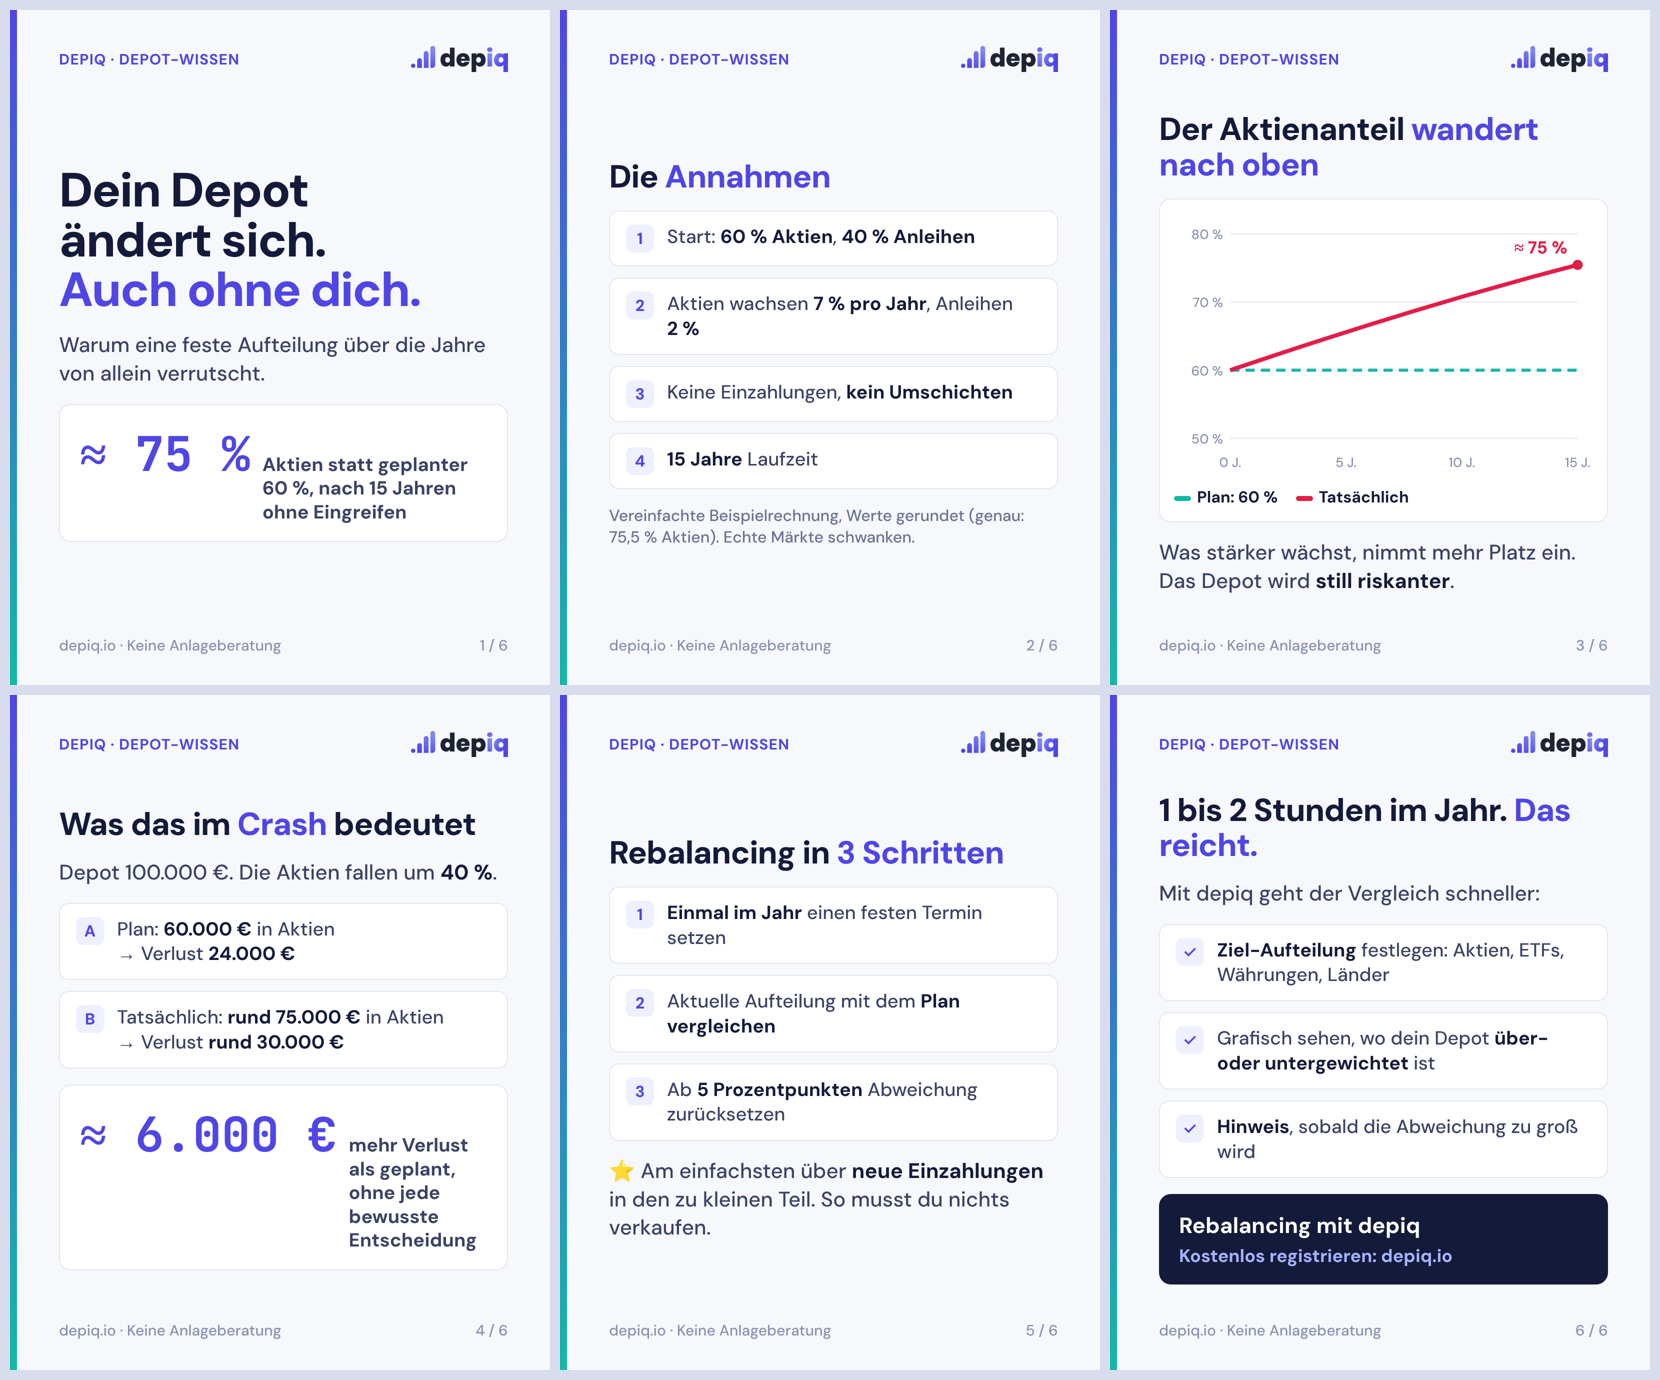
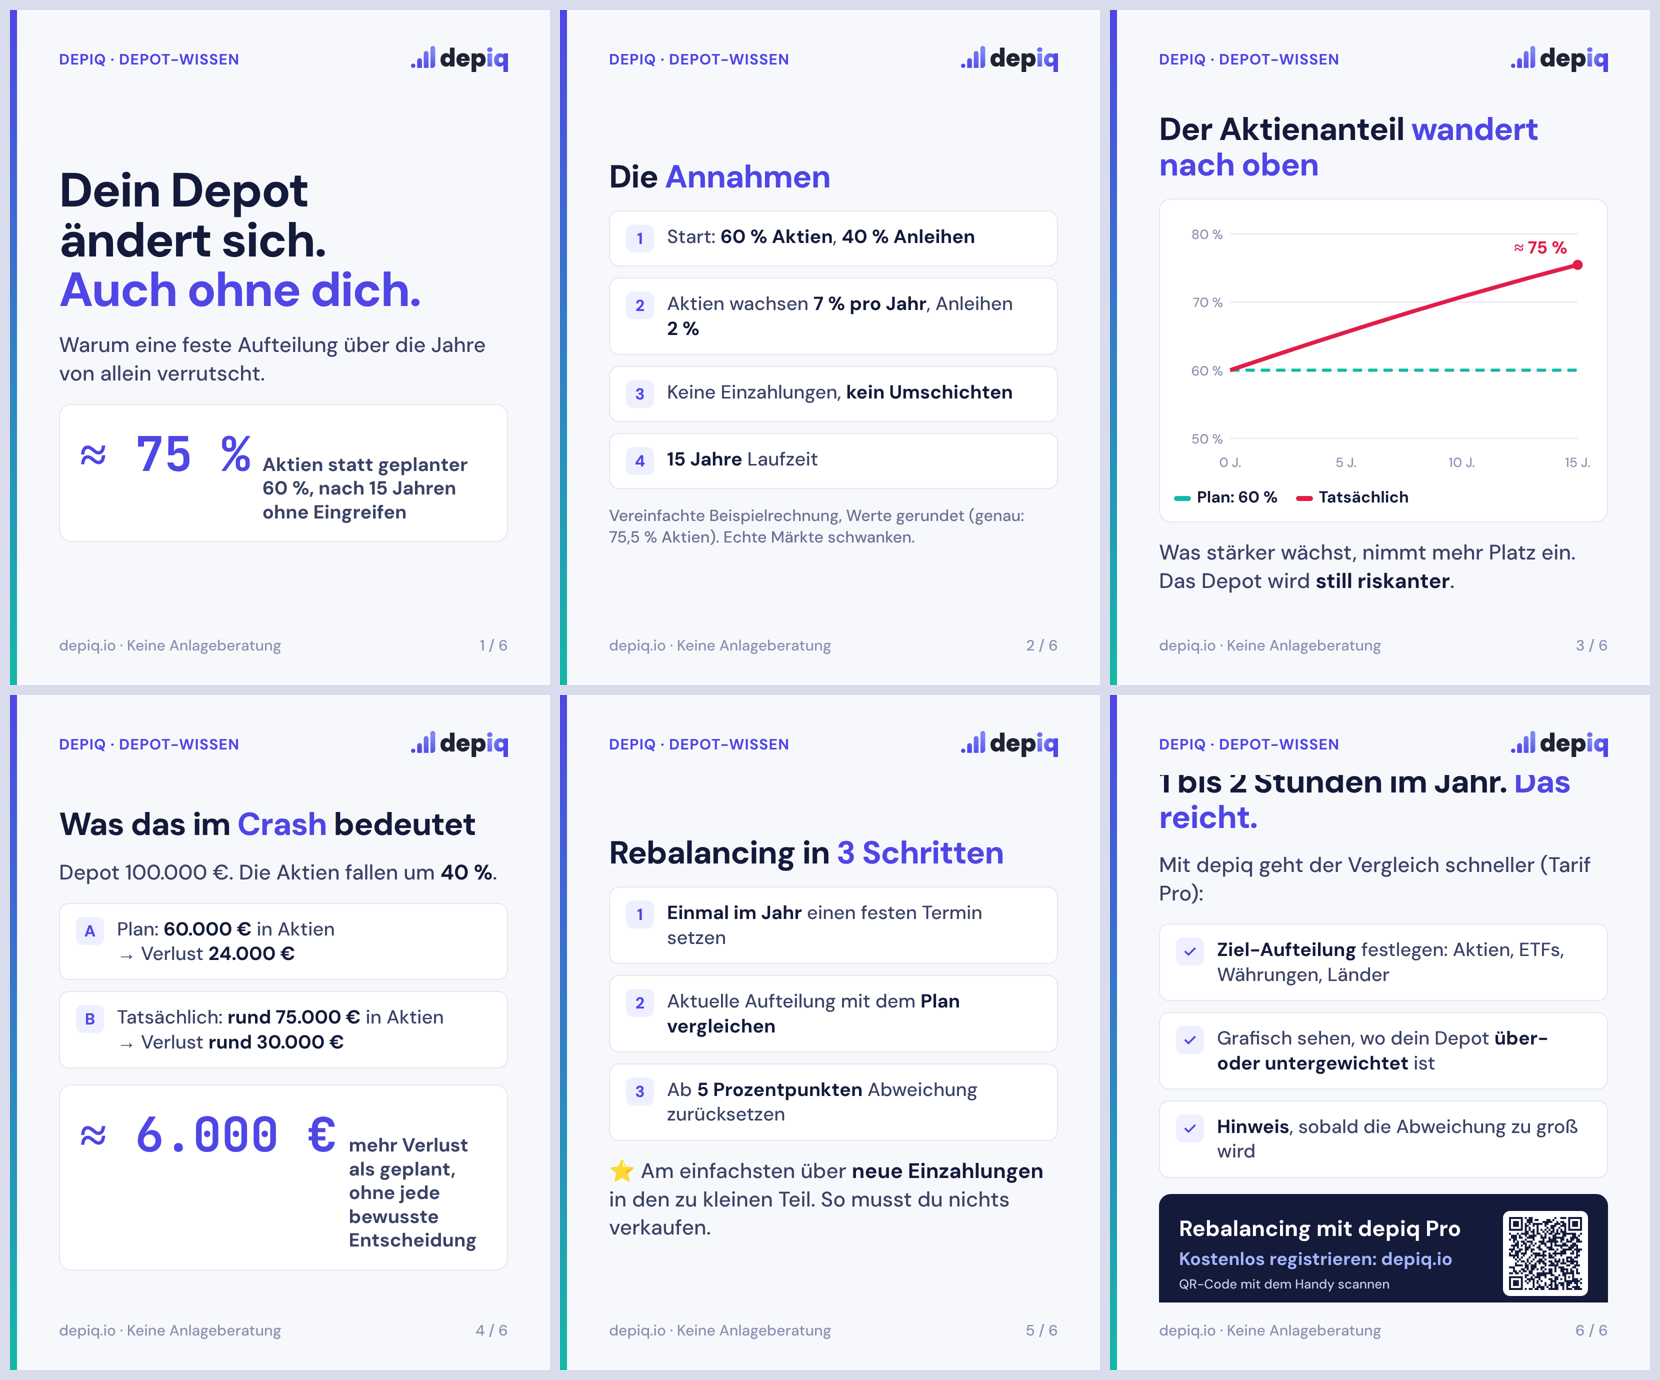
LinkedIn Rebalancing: Hinweis Tarif Pro
Claude-Session: https://claude.ai/code/session_01TCMRwfkoPUXt6cdHJjM9Lg

Changed region(s): [[0.7066, 0.8725, 0.9831, 0.9659], [0.6759, 0.5609, 0.9524, 0.6543], [0.8295, 0.6855, 0.8602, 0.7167]]

diff --git a/RICHTLINIEN.md b/RICHTLINIEN.md
@@ -96,7 +96,7 @@ LinkedIn bekommt **eigene Inhalte**, nicht dieselben Beiträge wie Instagram und
 
 ## 4e. depiq-Funktionen, die genannt werden dürfen (von Jürgen bestätigt)
 Nur diese Funktionen in Beiträgen nennen. Neue erst nach Bestätigung durch Jürgen aufnehmen. Nie behaupten, eine Funktion sei kostenlos, solange der Tarif nicht bestätigt ist; „kostenlos registrieren“ ist immer richtig.
-- **Rebalancing** (bestätigt 01.11.2026): Ziel-Aufteilung je Bereich einstellen (Aktien, ETFs, Währungen, Länder), grafische Anzeige von Über- und Untergewichtung samt erhöhtem Risiko, Hinweis per Benachrichtigung, eigene Seite und Widgets. Wird noch ausgebaut.
+- **Rebalancing** (bestätigt 01.11.2026): Ziel-Aufteilung je Bereich einstellen (Aktien, ETFs, Währungen, Länder), grafische Anzeige von Über- und Untergewichtung samt erhöhtem Risiko, Hinweis per Benachrichtigung, eigene Seite und Widgets. Wird noch ausgebaut. **Erst ab Tarif Pro** – in jedem Beitrag „Tarif Pro“ dazuschreiben.
 
 ## 5. Dateien und Namen
 - Reels: `reels/JJJJ-MM-TT_<Tag>_Reel.mp4`, Text `texte/JJJJ-MM-TT_<Tag>_Reel.txt`
